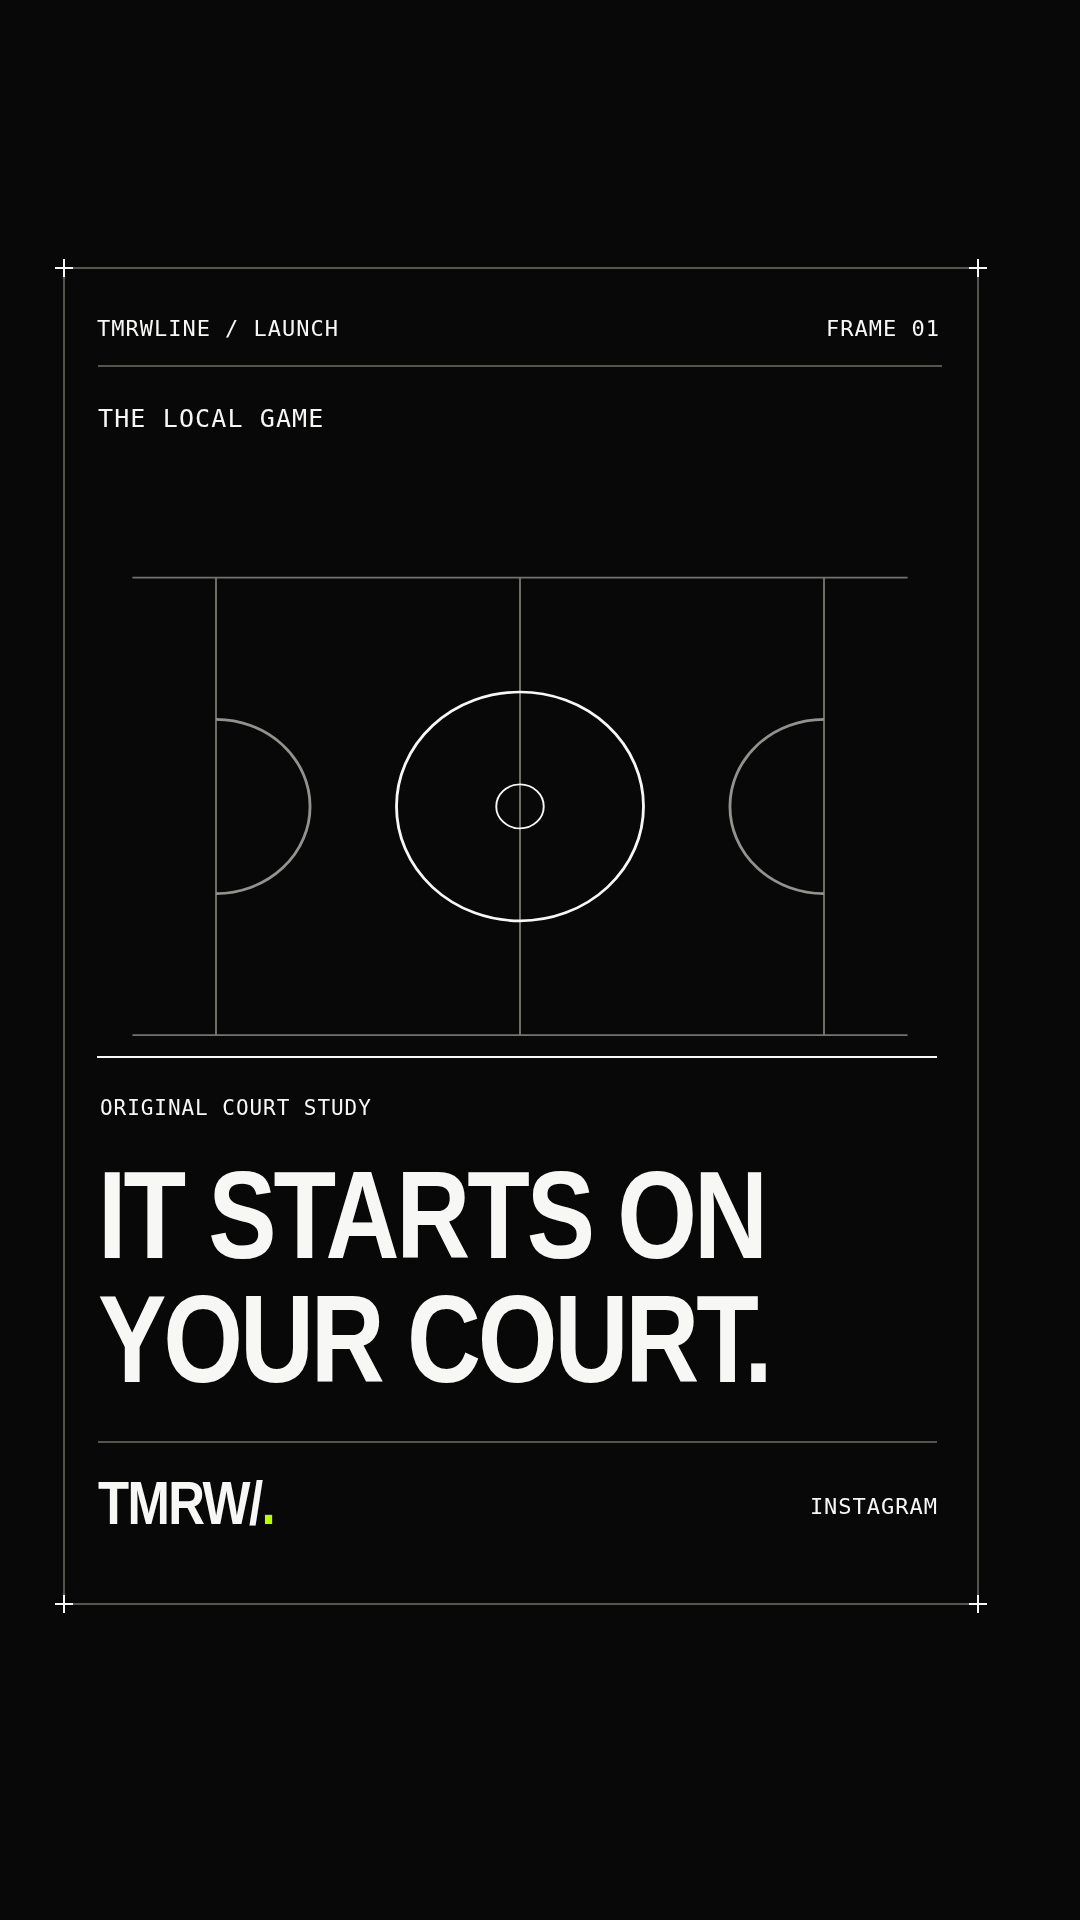
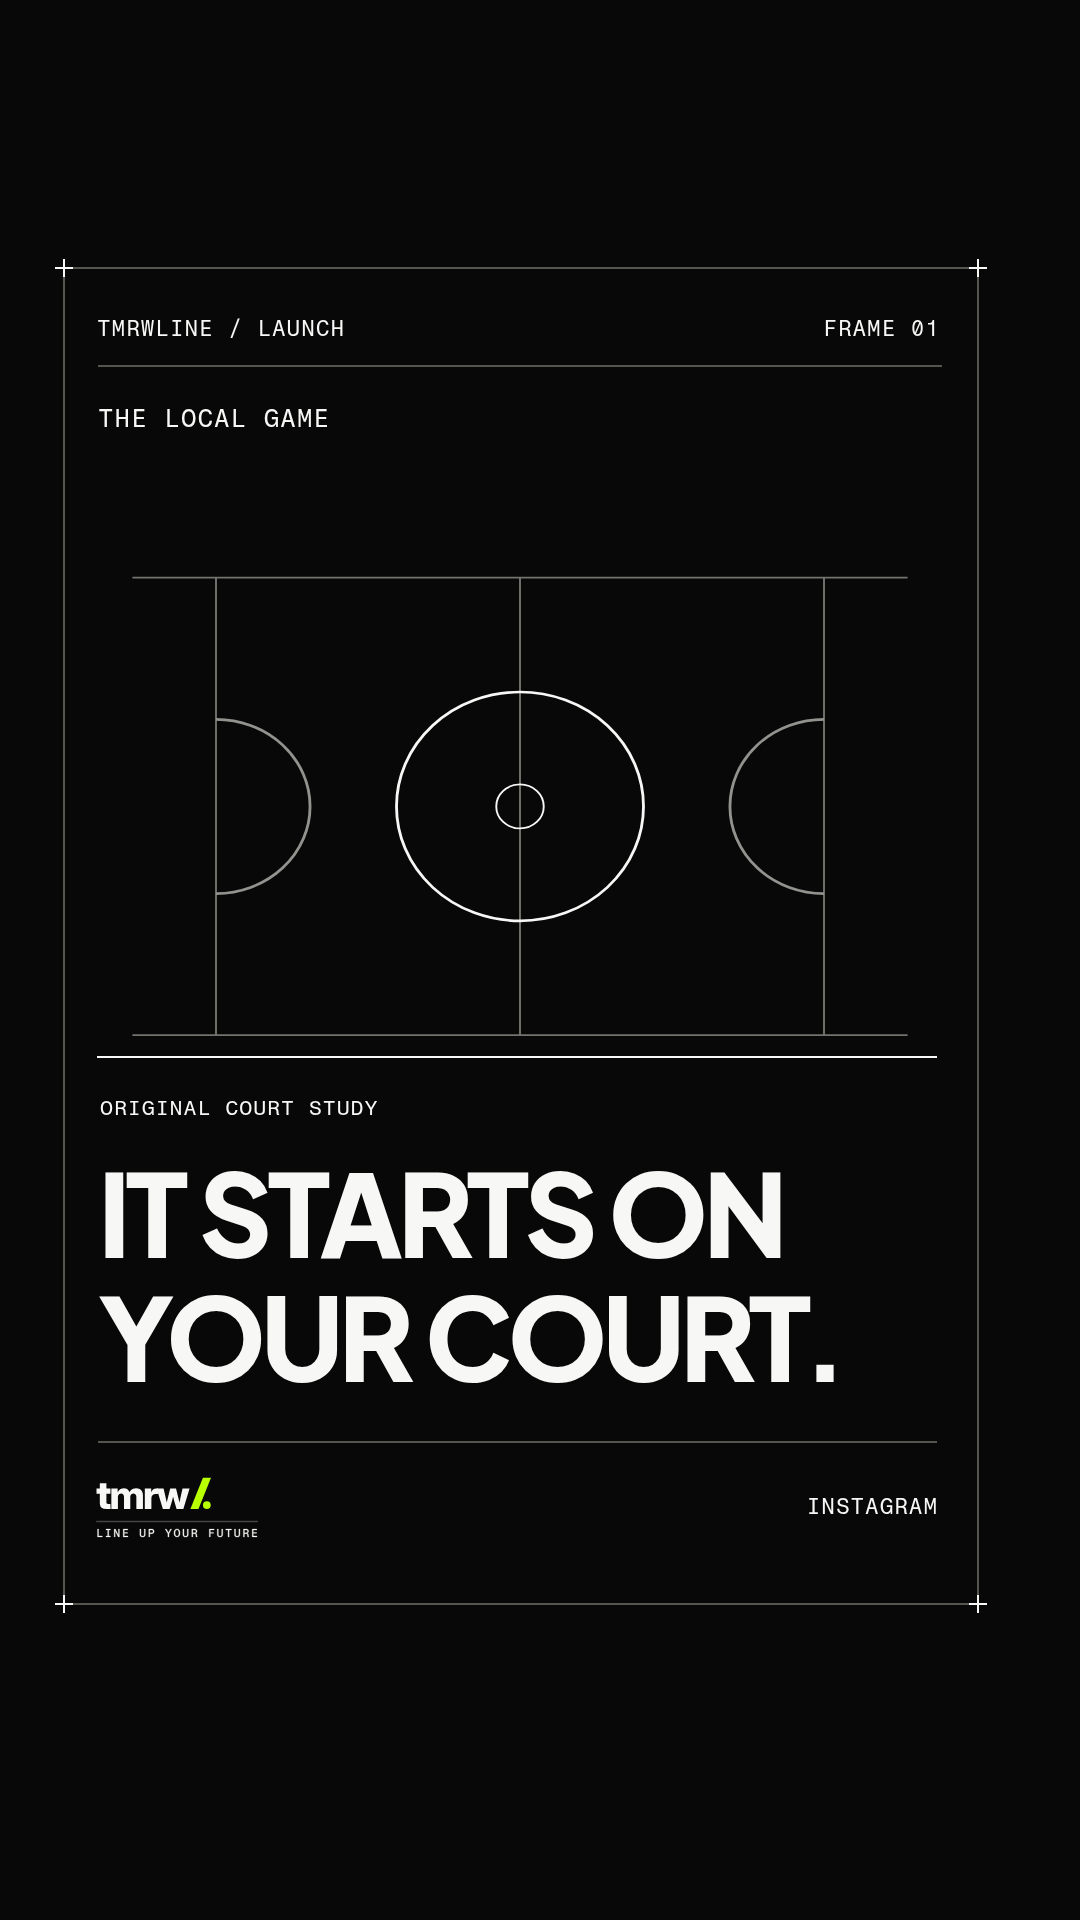
Match launch graphics to the site wordmark

diff --git a/marketing/daily-campaigns/2026-11-19.md b/marketing/daily-campaigns/2026-11-19.md
@@ -1,21 +1,21 @@
 # TMRWLine launch campaigns | 19 November 2026
 
-**Launch goal:** Introduce TMRWLine, styled `TMRW/.`, and its tagline, `Line up your Future`. Start from zero followers: give each viewer a reason to follow, share or nominate someone. No athlete names, likenesses or confirmed athlete postcodes appear in this launch.
+**Launch goal:** Introduce TMRWLine, with the lowercase `tmrw/.` wordmark and the tagline `Line up your Future`. Start from zero followers: give each viewer a reason to follow, share or nominate someone. No athlete names, likenesses or confirmed athlete postcodes appear in this launch.
 
-**Visual direction for all three:** Raw, high-contrast monochrome. Use `#080808` for cover and end-card backgrounds and `#F7F7F6` for text. Reserve volt green `#B8FF00` for the period in `TMRW/.` Use original footage, plain unbranded clothing and blank props. Keep team logos, club emblems and trademarked jerseys out of every frame.
+**Visual direction for all three:** Raw, high-contrast monochrome. Use `#080808` for cover and end-card backgrounds and `#F7F7F6` for text. Use the [dark lockup](../launch/assets/logo-dark.svg): lowercase `tmrw`, volt green `#B8FF00` slash and dot, and a hairline above the spaced monospace `LINE UP YOUR FUTURE`. Use original footage, plain unbranded clothing and blank props. Keep team logos, club emblems and trademarked jerseys out of every frame.
 
 ## Instagram Reel | It Starts on Your Court
 
 **Format:** 14-second vertical Reel. Film at anonymous local courts and fields. Frame tightly so no signs, landmarks, faces or identifying marks are visible. Leave the location tag off.
 
-**Cover:** Use the [court graphic](../launch/assets/instagram-court-cover.png) with `IT STARTS ON YOUR COURT` in off-white and `TMRW/.` below.
+**Cover:** Use the [court graphic](../launch/assets/instagram-court-cover.png) with `IT STARTS ON YOUR COURT` in off-white and the `tmrw/.` lockup below.
 
 | Time | Picture and sound | On-screen copy |
 | --- | --- | --- |
 | 0 to 2 s | A ball hits a painted court line. Let the bounce break the silence. | `EVERY GAME STARTS SOMEWHERE.` |
 | 2 to 7 s | Cut from the white line on a court to a white line on a field. Keep the squeak of the ball and the rustle of grass. | `YOUR COURT. YOUR FIELD. YOUR POSTCODE.` |
-| 7 to 11 s | Floodlights click on, tightly cropped against black. | `MEET TMRW/.` |
-| 11 to 14 s | End card: centre the logo and tagline on black with the follow line beneath, then loop back to the opening bounce. | `TMRW/.`, `Line up your Future`, `FOLLOW FOR LOCAL SPORT.` |
+| 7 to 11 s | Floodlights click on, tightly cropped against black. | `MEET` and the `tmrw/.` lockup |
+| 11 to 14 s | Centre the dark lockup on the [end card](../launch/assets/end-card.png), then loop back to the opening bounce. | `tmrw/.` lockup and `FOLLOW FOR LOCAL SPORT` |
 
 **Music brief:** Spare, percussive instrumental, 95 to 105 BPM. Search `minimal percussion`, `low pulse` or `sports build` in Instagram’s in-app commercial-use music library. Keep the first bounce dry and the beat under the court sounds. If no cleared track is available, use the original court sounds alone.
 
@@ -33,14 +33,14 @@ Line up your Future
 
 **Format:** 24-second vertical video. Cast an unnamed actor in plain, unbranded work clothes and match kit. Keep `DRAMATISATION` legible throughout. The shift and match are fictional. Film the match side in the style of a state league broadcast, using original footage and no broadcaster graphics.
 
-**Cover:** Use the [matchday graphic](../launch/assets/tiktok-matchday-cover.png) with `CLOCK IN. RUN ON.` and `DRAMATISATION` in off-white and a small `TMRW/.` lock-up.
+**Cover:** Use the [matchday graphic](../launch/assets/tiktok-matchday-cover.png) with `CLOCK IN. RUN ON.` and `DRAMATISATION` in off-white and a small `tmrw/.` lockup.
 
 | Time | Picture and sound | On-screen copy |
 | --- | --- | --- |
 | 0 to 3 s | An alarm reads 6:00. Cut from the buzz to a whistle in an empty tunnel. | `6 AM CASUAL SHIFT / MATCHDAY` |
 | 3 to 10 s | Match cuts: lace work boots, lace footy boots; pull on a work glove, tape a wrist. | `SAME HANDS. DIFFERENT SHIFT.` |
 | 10 to 18 s | A clock-in beep gives way to a wide shot of the actor running onto the field. | `YOU SEE KICK-OFF. NOT THE SHIFT BEFORE IT.` |
-| 18 to 24 s | End card: cut to black with `TMRW/.` and `Line up your Future` above the final off-white line. Hold it long enough to read. | Nominate the athlete in your postcode |
+| 18 to 24 s | End card: cut to black with the `tmrw/.` lockup above the final off-white line. Hold it long enough to read. | Nominate the athlete in your postcode |
 
 **Music brief:** Tense, stripped-back instrumental that builds to the run-on, 105 to 115 BPM. Search `gritty drums`, `tension build` or `instrumental sports pulse` in TikTok’s in-app Commercial Music Library. Leave room for the alarm, clock-in beep and whistle.
 
@@ -60,10 +60,10 @@ Line up your Future
 
 | Slide | Copy |
 | --- | --- |
-| 1, cover | `IF A LOCAL BUSINESS PUT IN A$2,500, WHO WOULD GET WHAT?` in off-white on black, with `TMRW/.` below. |
+| 1, cover | `IF A LOCAL BUSINESS PUT IN A$2,500, WHO WOULD GET WHAT?` in off-white on black, with the `tmrw/.` lockup below. |
 | 2 | `A$1,750 / ATHLETE (70%)` |
 | 3 | `A$375 / GRASSROOTS CLUB (15%)` |
-| 4, end card | `A$375 / TMRWLINE (15%)` and `SEE THE WHOLE SPLIT BEFORE YOU BACK LOCAL SPORT.` Close with `TMRW/.` and `Line up your Future` on black. |
+| 4, end card | `A$375 / TMRWLINE (15%)` and `SEE THE WHOLE SPLIT BEFORE YOU BACK LOCAL SPORT.` Close with the `tmrw/.` lockup on black. |
 
 **Music brief:** None for the LinkedIn document. For a future video adaptation, use an original or LinkedIn-cleared instrumental: steady and understated, 75 to 85 BPM; search `minimal bass pulse` or `quiet instrumental percussion` in a library licensed for LinkedIn.
 

diff --git a/.devin/skills/wk-social-director/SKILL.md b/.devin/skills/wk-social-director/SKILL.md
@@ -5,10 +5,10 @@ description: Generate daily TMRWLine social campaigns for Instagram, TikTok and 
 1. Checkout `release/v1-stable-launch` and branch into `marketing/campaigns-[YYYY-MM-DD]`.
 2. Read `src/data/roster.ts` and previous campaigns in `/marketing/daily-campaigns/`. Only feature an athlete if their written consent and the media rights for the proposed use are documented. A signed master licence (`master_licence_signed: true`) can help locate that documentation; the flag alone is not clearance. Never name example athletes, scouted prospects or anyone without both permissions in campaign drafts or published posts. Use only verified postcodes for eligible athletes. If no athlete qualifies, write athlete-free brand posts.
 3. Write 3 high-impact social scripts to `/marketing/daily-campaigns/[YYYY-MM-DD].md` using the 2026 NIL growth pillars:
-   - The Visual Hook: Raw, high-contrast monochrome framing (`#080808` background, `#F7F7F6` text, volt green `#B8FF00` period on `TMRW/.`). No corporate fluff.
+   - The Visual Hook: Raw, high-contrast monochrome framing (`#080808` background and `#F7F7F6` text). Use volt green `#B8FF00` for both the slash and dot in the dark `tmrw/.` lockup. No corporate fluff.
    - The 6 AM Shift vs. Matchday Reality: Highlighting the athlete balancing casual work with elite state/national league broadcasts.
    - The Transparent Receipt: Publishing exact dollar splits (e.g., $1,750 athlete / $375 grassroots club) to trigger viral commentary and trust.
-4. Use `TMRWLine` or `TMRW/.` as the brand name and `Line up your Future` as the tagline, preserving the exact spelling and capitalisation. Study these benchmark accounts for look, feel and engagement. Use them for reference only: never copy their assets, music or copy, and never tag them.
+4. Use `TMRWLine` as the company name and `tmrw/.` for the lowercase wordmark. Keep `Line up your Future` in copy and use the lockup's spaced monospace `LINE UP YOUR FUTURE` below its hairline. Use the dark or light SVG in `marketing/launch/assets/` rather than retyping the logo. The light lockup uses ink for the entire mark. Study these benchmark accounts for look, feel and engagement. Use them for reference only: never copy their assets, music or copy, and never tag them.
    - Overtime: Capture raw emotion, the stakes of grassroots games and the human story behind the athlete.
    - House of Highlights: Use quick cuts, punchy score and time captions, and moving type to draw the community into local games.
    - Formula 1: Make the build-up feel cinematic with high-contrast frames, deliberate pacing and quiet details before the action.

diff --git a/marketing/launch/account-setup.md b/marketing/launch/account-setup.md
@@ -1,6 +1,6 @@
 # TMRWLine | Social launch kit
 
-**Brand:** TMRWLine, styled `TMRW/.`
+**Brand:** TMRWLine, with the lowercase `tmrw/.` wordmark.
 
 **Tagline:** Line up your Future
 
@@ -8,7 +8,7 @@ Start with Instagram, TikTok and a LinkedIn Company Page. Check `@tmrwline` on b
 
 ## Instagram
 
-**Display name:** TMRWLine | TMRW/.
+**Display name:** TMRWLine | tmrw/.
 
 **Bio (150 characters max):**
 
@@ -70,3 +70,5 @@ Keep every launch post athlete-free. Use original imagery, leave location tags o
 | The A$2,500 Receipt | [Receipt cover](assets/instagram-receipt-cover.png) | [Receipt cover](assets/tiktok-receipt-cover.png) |
 
 The second-platform covers are for later adaptations, not extra posts in week one. Use the [end card](assets/end-card.png) for the follow version; for the matchday video, use the nomination line from the script instead.
+
+Use the [dark SVG lockup](assets/logo-dark.svg) on ink and the [light SVG lockup](assets/logo-light.svg) on off-white. Both include the hairline and spaced monospace `LINE UP YOUR FUTURE`. Keep the wordmark lowercase as artwork and the tagline as `Line up your Future` in written copy.
